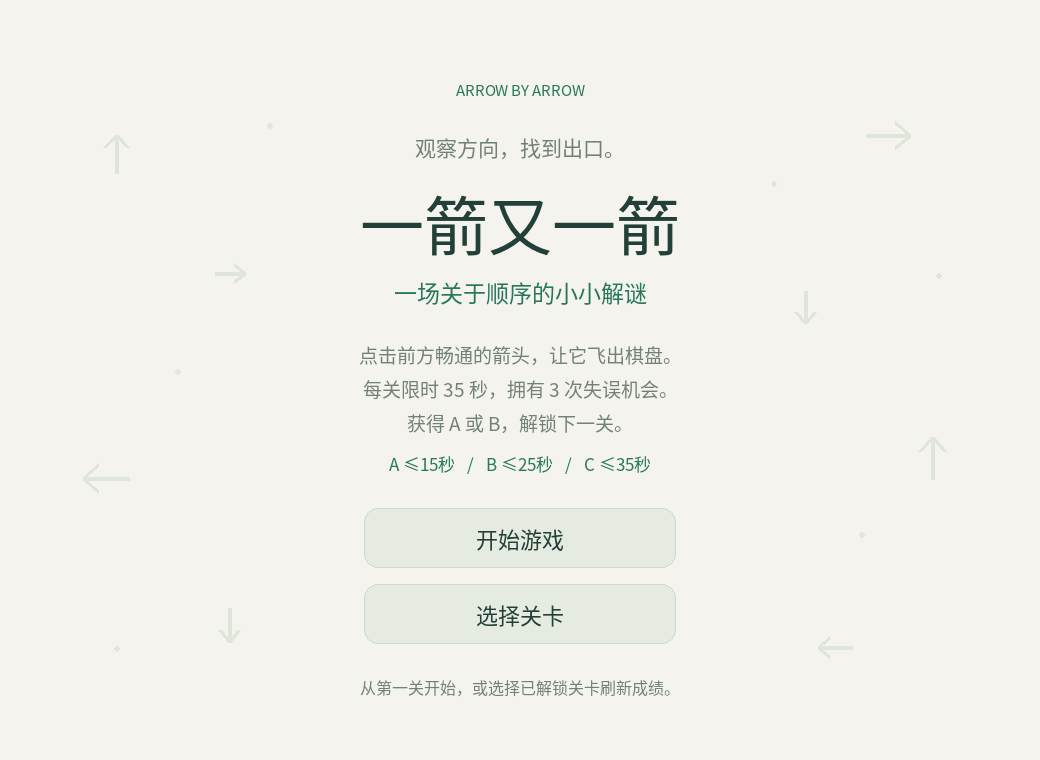
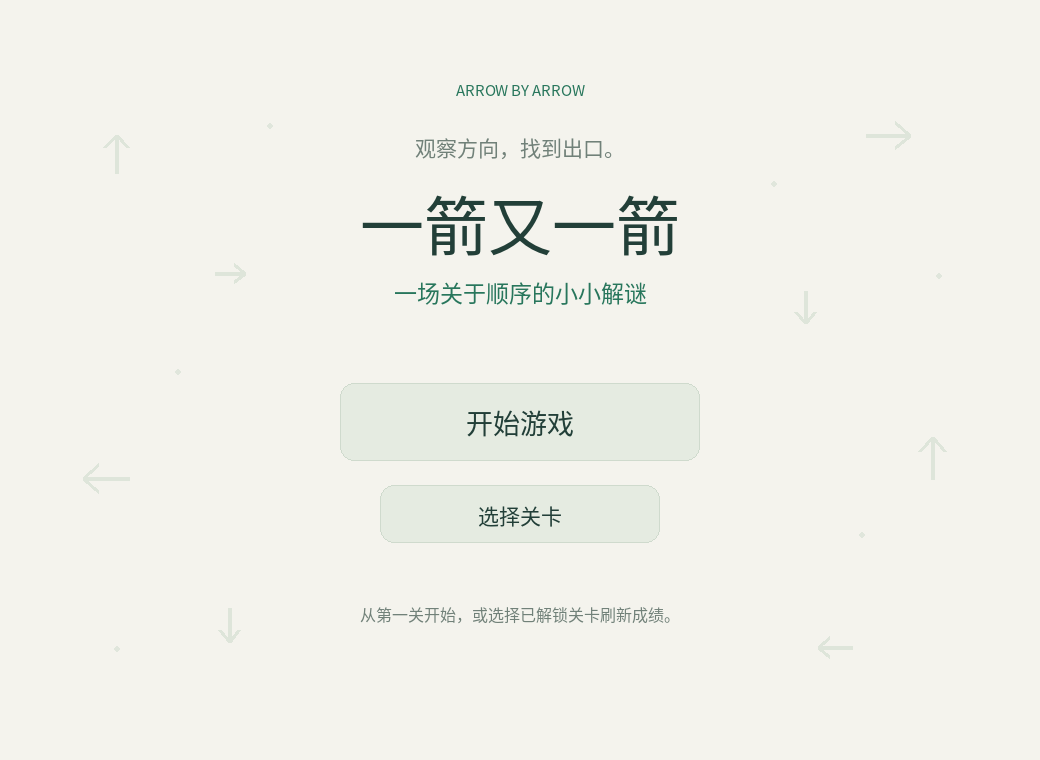
feat: show rules before timed play and enlarge start button

diff --git a/main.py b/main.py
@@ -89,19 +89,21 @@ class App:
     def start(self, index=0):
         if not self.game.start(index):
             return
+        self.game.state = 'READY'
         self.geometry()
         self.notice = '点击箭头，让通路逐渐打开。'
 
     def home_button(self, key, label, y):
-        """首页等宽纵向按钮；悬停时以绿色填充、描边和箭头强调。"""
-        rect = pygame.Rect(WIDTH//2-156, y, 312, 60)
+        """主按钮更大，悬停时以绿色填充、描边和箭头强调。"""
+        width, height = (360, 78) if key == 'start' else (280, 58)
+        rect = pygame.Rect((WIDTH-width)//2, y, width, height)
         self.buttons[key] = rect
         hover = rect.collidepoint(pygame.mouse.get_pos())
         if hover:
             self.panel(rect.inflate(10, 10), '#D5E5D7', radius=19)
         self.panel(rect, GREEN if hover else '#E5EBE1',
                    '#205F4B' if hover else '#CFDACD', radius=14)
-        self.text(label, rect.center, 22, 'white' if hover else INK, True)
+        self.text(label, rect.center, 27 if key == 'start' else 21, 'white' if hover else INK, True)
         if hover:
             self.arrow((rect.right-33, rect.centery), 'R', 'white', 18, 3)
 
@@ -119,16 +121,27 @@ class App:
         self.text('观察方向，找到出口。', (cx,146), 21, MUTED, True)
         self.text('一箭又一箭', (cx,221), 64, INK, True)
         self.text('一场关于顺序的小小解谜', (cx,292), 23, GREEN, True)
+        self.home_button('start', '开始游戏', 383)
+        self.home_button('select', '选择关卡', 485)
+        self.text('从第一关开始，或选择已解锁关卡刷新成绩。', (cx,614), 16, MUTED, True)
+        if self.game.progress.message:
+            self.text(self.game.progress.message, (cx,730), 16, '#B95D43', True)
+
+    def draw_ready(self):
+        cx = WIDTH//2
+        self.text('准备好了吗？', (cx,121), 22, GREEN, True)
+        self.text(f'第 {self.game.level_index+1} 关 · {LEVELS[self.game.level_index]["name"]}',
+                  (cx,185), 38, INK, True)
+        self.panel((230,249,580,260), 'white', LINE, 24)
         for i, line in enumerate(['点击前方畅通的箭头，让它飞出棋盘。',
                                   '每关限时 35 秒，拥有 3 次失误机会。',
                                   '获得 A 或 B，解锁下一关。']):
-            self.text(line, (cx,354+i*34), 19, MUTED, True)
-        self.text('A ≤15秒   /   B ≤25秒   /   C ≤35秒', (cx,463), 17, GREEN, True)
-        self.home_button('start', '开始游戏', 508)
-        self.home_button('select', '选择关卡', 584)
-        self.text('从第一关开始，或选择已解锁关卡刷新成绩。', (cx,687), 16, MUTED, True)
-        if self.game.progress.message:
-            self.text(self.game.progress.message, (cx,730), 16, '#B95D43', True)
+            self.text(line, (cx,291+i*43), 21, INK, True)
+        self.text('A ≤15秒   /   B ≤25秒   /   C ≤35秒', (cx,443), 21, GREEN, True)
+        self.text('超过 35 秒或失误机会用尽，本关失败。', (cx,483), 17, MUTED, True)
+        self.button('begin', '开始挑战', (350,550,340,64), True)
+        self.text('点击“开始挑战”后计时，现在可放心阅读规则。', (cx,645), 17, MUTED, True)
+        self.button('select', '返回选关', (64, 40, 140,44))
 
     def draw_selection(self):
         self.text('ARROW / SELECT', (64, 39), 16, GREEN)
@@ -258,6 +271,7 @@ class App:
         self.buttons.clear()
         if self.game.state=='MENU': self.draw_menu()
         elif self.game.state=='SELECT': self.draw_selection()
+        elif self.game.state=='READY': self.draw_ready()
         elif self.game.state=='PLAYING': self.draw_playing()
         else: self.draw_result()
         pygame.display.flip()
@@ -265,6 +279,9 @@ class App:
     def action(self, key):
         g=self.game
         if key=='start': self.start()
+        elif key=='begin' and g.state=='READY':
+            g.state='PLAYING'
+            self.clock.tick()  # 清除说明页的帧间隔，计时从确认后开始。
         elif key=='select':
             g.menu()
             g.state='SELECT'
@@ -287,7 +304,7 @@ class App:
             elif event.key==pygame.K_r and self.game.state=='PLAYING': self.action('restart')
             elif event.key==pygame.K_h and self.game.state=='PLAYING': self.action('hint')
             elif event.key==pygame.K_RETURN:
-                self.action('start' if self.game.state=='MENU' else 'continue')
+                self.action('start' if self.game.state=='MENU' else 'begin' if self.game.state=='READY' else 'continue')
         elif event.type==pygame.MOUSEBUTTONDOWN and event.button==1:
             for key,rect in self.buttons.items():
                 if rect.collidepoint(event.pos):

diff --git a/tests/test_ui.py b/tests/test_ui.py
@@ -17,7 +17,10 @@ class UITests(unittest.TestCase):
         self.app.handle_event(pygame.event.Event(pygame.MOUSEBUTTONDOWN,button=1,pos=pos))
         self.app.draw()
 
-    def button(self,key): self.click(self.app.buttons[key].center)
+    def button(self,key):
+        self.click(self.app.buttons[key].center)
+        if self.app.game.state == 'READY':
+            self.click(self.app.buttons['begin'].center)
 
     def finish_animation(self):
         for _ in range(40):
@@ -120,5 +123,24 @@ class UITests(unittest.TestCase):
         self.app.handle_event(pygame.event.Event(pygame.KEYDOWN,key=pygame.K_ESCAPE))
         self.app.draw()
         self.assertEqual(self.app.game.state,'MENU')
+
+    def test_ready_screen_waits_for_confirmation(self):
+        self.assertGreater(self.app.buttons['start'].width,self.app.buttons['select'].width)
+        self.assertGreater(self.app.buttons['start'].height,self.app.buttons['select'].height)
+        self.click(self.app.buttons['start'].center)
+        self.assertEqual(self.app.game.state,'READY')
+        self.app.game.update(60)
+        self.assertEqual(self.app.game.elapsed,0)
+        self.assertEqual(self.app.game.click(0,1),'ignored')
+        self.app.handle_event(pygame.event.Event(pygame.KEYDOWN,key=pygame.K_RETURN))
+        self.app.draw()
+        self.assertEqual(self.app.game.state,'PLAYING')
+        self.app.game.update(1)
+        self.assertEqual(self.app.game.elapsed,1)
+        self.click(self.app.buttons['restart'].center)
+        self.assertEqual(self.app.game.state,'READY')
+        self.assertEqual(self.app.game.elapsed,0)
+        self.click(self.app.buttons['select'].center)
+        self.assertEqual(self.app.game.state,'SELECT')
 
 if __name__=='__main__': unittest.main()

diff --git a/docs/capture_demo.py b/docs/capture_demo.py
@@ -17,6 +17,7 @@ def capture(name):
     pygame.image.save(app.screen,str(out/name))
 capture('01_menu.png')
 app.start(0)
+app.action('begin')
 capture('02_game.png')
 r,c=next((r,c) for r,row in enumerate(app.game.board) for c,d in enumerate(row)
          if d and not can_exit(app.game.board,r,c))
@@ -30,21 +31,26 @@ for _ in range(2):
     app.game.update(1)
 capture('04_failure.png')
 app.start(0)
+app.action('begin')
 for r,c in solve(app.game.board):
     app.game.click(r,c)
     app.game.update(1)
 capture('05_clear.png')
 app.game.progress.record(1,10)
 app.start(2)
+app.action('begin')
 capture('06_level3.png')
 for r,c in solve(app.game.board):
     app.game.click(r,c)
     app.game.update(1)
 capture('07_all_clear.png')
 app.start(1)
+app.action('begin')
 app.game.update(35.01)
 capture('08_timeout.png')
 app.action('select')
 capture('09_selection.png')
+app.start(0)
+capture('11_rules.png')
 pygame.quit()
-print('Saved 9 screenshots')
+print('Saved 10 screenshots')

diff --git a/README.md b/README.md
@@ -40,13 +40,13 @@ python3.12 -m venv .venv
 | 25 < t ≤ 35 秒 | C |
 | t > 35 秒 | 立即失败 |
 
-进入关卡时开始计时，最后一支箭头飞出动画完成时结算。观察、提示、碰撞、飞出动画及窗口失去焦点期间均计时，不提供暂停；结果页停止计时。重开和下一关归零。仍保留 3 次失误机制，失误耗尽也会失败。界面显示两位小数，判断使用未格式化的时间，边界按上述规则执行。
+进入关卡先显示规则页，点击“开始挑战”或按 Enter 后开始计时，最后一支箭头飞出动画完成时结算。观察、提示、碰撞、飞出动画及窗口失去焦点期间均计时，不提供暂停；结果页停止计时。重开和下一关归零。仍保留 3 次失误机制，失误耗尽也会失败。界面显示两位小数，判断使用未格式化的时间，边界按上述规则执行。
 
 飞出动画缩短到每支 0.25 秒，使第三关 30 支箭头的理论最短动画耗时为 7.5 秒，A 评级在规则上可达。
 
 ## 关卡选择与成绩保存
 
-首页内容居中，“开始游戏”和“选择关卡”上下排列，鼠标悬停时按钮高亮。点击“选择关卡”跳转到独立选关页面，选关页面展示全部三关，第一关默认开放，前一关曾取得 A 或 B 后永久解锁下一关。未解锁关卡不可点击；即使直接调用开始关卡的方法，也会检查解锁条件。
+首页内容居中，“开始游戏”和“选择关卡”上下排列，开始游戏按钮尺寸与字号更大，鼠标悬停时按钮高亮。点击“选择关卡”跳转到独立选关页面，选关页面展示全部三关，第一关默认开放，前一关曾取得 A 或 B 后永久解锁下一关。未解锁关卡不可点击；即使直接调用开始关卡的方法，也会检查解锁条件。
 
 每关记录成功通关的最短时间，并据此显示最佳评级。更慢成绩、C 评级或失败都不会覆盖原有更好记录，也不会重新锁定已经解锁的关卡。若本次拿到 C，结果页只能重试或回首页；之前解锁的后续关卡仍可从首页的“选择关卡”进入后选择。
 
@@ -78,7 +78,7 @@ python3.12 -m venv .venv
 | `levels.py` | 三个固定关卡 |
 | `tests/test_logic.py` | 11 项核心规则测试 |
 | `tests/test_timer.py` | 8 项计时、评级边界和超时测试 |
-| `tests/test_ui.py` | 5 项界面事件流程测试 |
+| `tests/test_ui.py` | 6 项界面事件流程测试 |
 | `assets/` | 中文字体及字体许可证 |
 | `docs/` | 截图、开发记录、测试报告、PSP 表与通关顺序 |
 
@@ -103,7 +103,7 @@ python3.12 -m venv .venv
 python -m unittest discover -s tests -v
 ```
 
-31 项测试已在 Linux / Python 3.12.14 / pygame-ce 2.5.8 环境通过。界面测试使用 SDL dummy 驱动和模拟鼠标事件，可在无桌面环境运行；覆盖三关完整通关、失败重开、重复点击和中途重开。
+32 项测试已在 Linux / Python 3.12.14 / pygame-ce 2.5.8 环境通过。界面测试使用 SDL dummy 驱动和模拟鼠标事件，可在无桌面环境运行；覆盖三关完整通关、失败重开、重复点击和中途重开。
 
 原始输出见 `docs/test_output.txt`。自动化测试不替代本人试玩：Windows 桌面实机运行、主观动画流畅度以及每关人工试玩，需下载后确认。
 
@@ -124,3 +124,5 @@ git clone history/development.bundle ../arrow-game-repo
 ## 资源来源
 
 箭头、布局与界面图形由代码绘制，无原商业游戏素材。字体使用 [Noto Sans CJK](https://github.com/notofonts/noto-cjk)，文件为 `Sans/OTF/SimplifiedChinese/NotoSansCJKsc-Regular.otf`，按 SIL Open Font License 1.1 分发，许可证随包保留在 `assets/OFL.txt`。
+
+首页不再显示详细规则，玩法、35 秒限时与 ABC 评级统一放在关卡开始前的说明页。初次进入、选关、下一关及重试都先进入说明页；阅读期间不计时，也不接受棋盘点击。

diff --git a/docs/TEST_REPORT.md b/docs/TEST_REPORT.md
@@ -2,7 +2,7 @@
 
 环境：Linux、Python 3.12.14、pygame-ce 2.5.8；界面用 SDL dummy 驱动进行无窗口渲染和模拟鼠标事件测试。
 
-结果：31 项 unittest 测试通过。原始输出见 `test_output.txt`。
+结果：32 项 unittest 测试通过。原始输出见 `test_output.txt`。
 
 | 编号 | 内容 | 预期 | 本次实际结果 |
 | --- | --- | --- | --- |
@@ -48,3 +48,7 @@
 ## 首页视觉更新
 
 检查居中布局、上下按钮间隔及实际悬停截图 `10_home_hover.png`，无文本重叠。重新执行原有 31 项测试，全部通过。
+
+## 开始前规则页
+
+新增 READY 页面测试，等待60秒仍为0秒；点击棋盘不响应；Enter确认后计时；重试归零并回规则页；可返回选关。首页主按钮宽高大于次按钮。32项测试通过，首页与说明页截图已检查。
